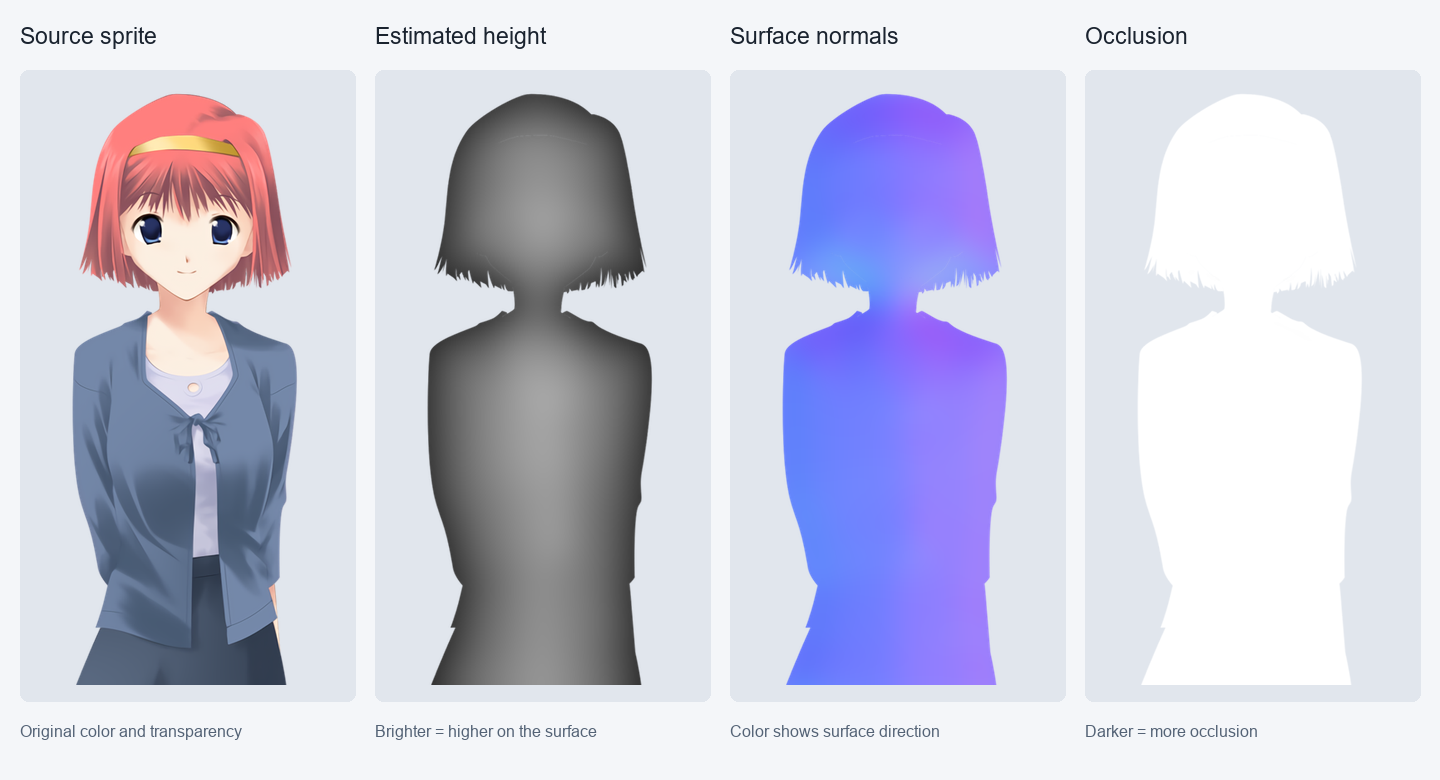
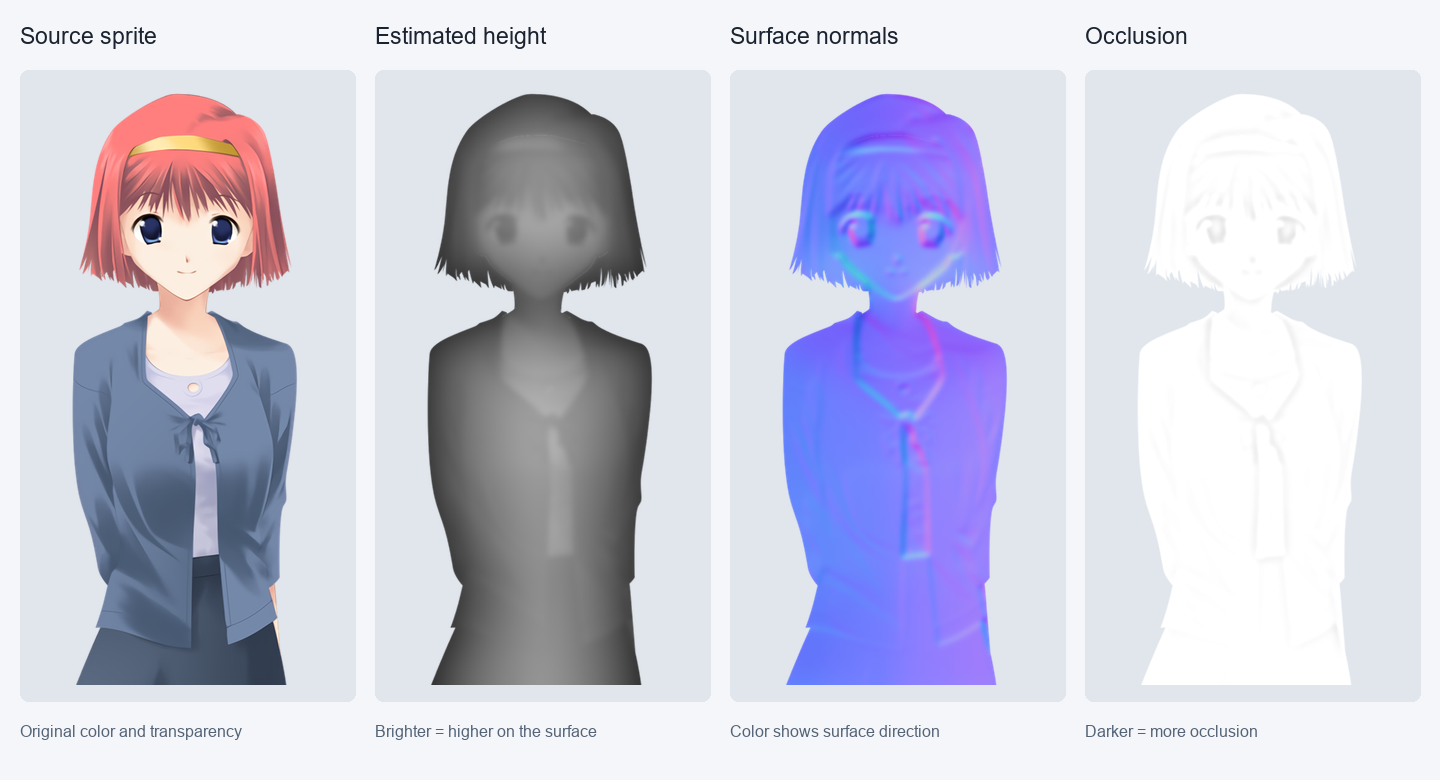
Preserve fine surface detail while smoothing silhouette ridges

diff --git a/tests/test_effects.py b/tests/test_effects.py
@@ -30,21 +30,21 @@ def _pre_effect_fixture(mode: str) -> Image.Image:
 
 
 def test_form_maps_preserve_the_reviewed_smooth_surface_texels() -> None:
-    # v4 smooths the inferred height ridges before normal reconstruction.
+    # v5 smooths the silhouette ridges while retaining painted relief.
     # Keep this reviewed surface stable across packing and optional-FX changes.
     expected = {
         "opaque": {
[6 lines of base64/hex data omitted]
         },
         "sprite": {
[6 lines of base64/hex data omitted]
         },
     }
-    assert FORM_MAP_VERSION == 4
+    assert FORM_MAP_VERSION == 5
     for mode, hashes in expected.items():
         maps = build_sprite_form_maps(_pre_effect_fixture(mode))
         normal = np.asarray(maps.normal_noise.convert("RGB"), dtype=np.uint8)

diff --git a/tests/test_release.py b/tests/test_release.py
@@ -65,7 +65,7 @@ def test_release_record_names_every_cache_contract() -> None:
         "runtime_api_version": 1,
         "runtime_manifest_version": 8,
         "transport_algorithm": "12-scene-stable-light-layout",
-        "sprite_form_version": 4,
+        "sprite_form_version": 5,
         "capture_version": 42,
         "capture_plan_version": 2,
         "capture_pixel_version": 2,
@@ -233,7 +233,7 @@ def test_direct_refresh_seeds_only_compatible_sprite_form_maps(tmp_path: Path) -
     (forms / "hero_response.png").write_bytes(b"map")
     manifest = source / "sprite_form_manifest.json"
     manifest.write_text(
-        json.dumps({"version": 4, "sprites": {"hero idle": {"response": "map"}}}),
+        json.dumps({"version": 5, "sprites": {"hero idle": {"response": "map"}}}),
         encoding="utf-8",
     )
     managed = tmp_path / "working-copy"
@@ -248,7 +248,7 @@ def test_direct_refresh_seeds_only_compatible_sprite_form_maps(tmp_path: Path) -
     incompatible_forms.mkdir(parents=True)
     (incompatible_forms / "hero_response.png").write_bytes(b"old map")
     (incompatible_source / "sprite_form_manifest.json").write_text(
-        json.dumps({"version": 3, "sprites": {"hero idle": {}}}), encoding="utf-8"
+        json.dumps({"version": 4, "sprites": {"hero idle": {}}}), encoding="utf-8"
     )
     other_managed = tmp_path / "other-working-copy"
     (other_managed / "game").mkdir(parents=True)

diff --git a/src/scenelight/engine.py b/src/scenelight/engine.py
@@ -1336,13 +1336,14 @@ def _pseudo_surface(
     )
     broad_luma = cv2.GaussianBlur(luma, (0, 0), sigmaX=max(2.0, min(alpha.shape) / 100))
     broad_luma = (broad_luma - np.mean(broad_luma[mask > 0])) if np.any(mask) else broad_luma
-    height = 0.76 * np.sqrt(np.maximum(distance, 0.0)) + 0.24 * broad_luma
     # A distance field has ridges wherever two silhouette edges are equally
-    # close. Treat the inferred relief as a broad surface before differentiating
-    # it, or those ridges become false creases under opposing colored lights.
-    # This filters derived height only; the source artwork stays untouched.
-    sigma = max(1.2, min(alpha.shape) / 16)
-    height = cv2.GaussianBlur(height, (0, 0), sigmaX=sigma)
+    # close. Smooth that broad shape separately: applying the same wide filter
+    # to painted relief would erase useful hair, face and clothing detail.
+    silhouette_height = cv2.GaussianBlur(
+        np.sqrt(np.maximum(distance, 0.0)), (0, 0), sigmaX=max(1.2, min(alpha.shape) / 16)
+    )
+    detail_height = cv2.GaussianBlur(broad_luma, (0, 0), sigmaX=max(1.2, min(alpha.shape) / 260))
+    height = 0.76 * silhouette_height + 0.24 * detail_height
     gx = cv2.Sobel(height, cv2.CV_32F, 1, 0, ksize=3)
     gy = cv2.Sobel(height, cv2.CV_32F, 0, 1, ksize=3)
     strength = 5.5 * depth

diff --git a/tests/test_surface_continuity.py b/tests/test_surface_continuity.py
@@ -32,3 +32,24 @@ def test_surface_preparation_keeps_source_pixels_and_transparency():
     assert sprite.tobytes() == before
     assert maps.metadata["map_size"] == [64, 80]
     assert maps.normal_noise.size == sprite.size
+
+
+def test_fine_painted_relief_survives_without_spreading_across_the_surface():
+    size = 256
+    alpha = np.zeros((size, size), dtype=np.float32)
+    alpha[16:240, 32:224] = 1
+    srgb = np.full((size, size, 3), 0.6, dtype=np.float32)
+    y, x = np.mgrid[:size, :size]
+    radius_squared = (x - 96) ** 2 + (y - 128) ** 2
+    highlight = np.exp(-radius_squared / (2 * 4**2)).astype(np.float32)
+    detailed = srgb + 0.25 * highlight[..., None]
+
+    height, *normal = _pseudo_surface(alpha, srgb, 0.72)
+    detail_height, *detail_normal = _pseudo_surface(alpha, detailed, 0.72)
+    change = np.linalg.norm(np.stack(detail_normal) - np.stack(normal), axis=0)
+
+    # A small painted feature must affect local relief without becoming a
+    # broad blob. Filtering the complete height at silhouette scale fails this.
+    assert change.max() > 0.1
+    assert np.max(np.abs(detail_height - height)) > 0.03
+    assert change[radius_squared > 32**2].max() < 0.001

diff --git a/tests/test_developer.py b/tests/test_developer.py
@@ -189,7 +189,7 @@ def test_verified_refresh_migrates_versionless_pre_release_manifest(tmp_path: Pa
     assert status.clean
     assert status.installed_version == "1.0.0"
     migrated = json.loads(manifest_path.read_text(encoding="utf-8"))
-    assert migrated["release"]["sprite_form_version"] == 4
+    assert migrated["release"]["sprite_form_version"] == 5
 
 
 def test_refresh_preflight_refuses_a_modified_runtime_before_analysis(tmp_path: Path) -> None:

diff --git a/src/scenelight/form_maps.py b/src/scenelight/form_maps.py
@@ -25,7 +25,7 @@ from .engine import (
     _surface_ambient_occlusion,
 )
 
-FORM_MAP_VERSION = 4
+FORM_MAP_VERSION = 5
 FORM_ANALYSIS_MAX_DIMENSION = 512
 HEIGHT_MIN = -0.25
 HEIGHT_MAX = 1.25

diff --git a/docs/BETA_VALIDATION.md b/docs/BETA_VALIDATION.md
@@ -5,17 +5,18 @@ and a successful install is not a complete game playthrough.
 
 ## Current validation
 
-The local Windows suite passed 600 tests on 2026-09-11, with no failures,
+The local Windows suite passed 601 tests on 2026-09-11, with no failures,
 errors or skips. Lint, formatting, package builds, dependency checks and the
 configured static/dependency audits are also release gates. GitHub CI runs the
 committed source on Windows and Linux, with a separate player-only installation
 job that excludes the optional Preview stack.
 
-The surface-seam correction was checked against the selected Eileen render:
-the production output matches it pixel for pixel. The optimized and fallback
-shader paths also match on that scene. Ren'Py 7.7.1 and 8.5.3 completed movement,
-colored-light mode changes, a fixed midpoint transition, and save/load using the
-new form maps. Form-map version 4 rebuilds older maps during an update. The
+The surface-seam correction smooths the silhouette separately from finer painted
+relief. Regression checks require both a smooth center across flat paint and a
+local normal response to a small painted feature. The optimized and fallback
+shader paths match pixel for pixel on the Eileen example. Ren'Py 7.7.1 and 8.5.3
+completed movement, colored-light mode changes, a fixed midpoint transition, and
+save/load using the new form maps. Version 5 rebuilds older maps during an update. The
 older Radeon machine was unavailable for this follow-up; the hardware results
 below describe the preceding optimization pass, not a new measurement of this fix.
 

diff --git a/docs/HOW_IT_WORKS.md b/docs/HOW_IT_WORKS.md
@@ -15,8 +15,9 @@ are actual Preview renders with the default lighting settings.
 ![Original sprite, estimated height, normals and occlusion](media/surface-maps.png)
 
 **Height** is a shallow estimate made from the transparent outline and the
-image’s existing shading. It is smoothed before deriving surface directions so
-the outline does not create sharp artificial creases through the character.
+image’s existing shading. The broad shape inferred from the outline is smoothed
+separately from the finer painted relief. This removes artificial creases while
+keeping detail in the surface directions.
 Brighter values in the diagram mean higher parts of that estimated surface.
 
 **Normals** describe the direction the surface faces at each point. Their colors

diff --git a/CHANGELOG.md b/CHANGELOG.md
@@ -2,9 +2,10 @@
 
 ## 1.0.0 — private development
 
-- Smooths artificial height ridges and corrects the directional color blend
-  that made them appear as sharp lines across sprites. Existing installations
-  rebuild character maps when updated to form-map version 4.
+- Smooths artificial silhouette ridges separately from finer painted relief,
+  and corrects the directional color blend that made ridges appear as sharp
+  lines across sprites. Existing installations rebuild character maps when
+  updated to form-map version 5.
 - Adds rendered examples, a guide to height and normal maps, and shorter setup
   instructions. The project remains private; no public release has been made.
 

diff --git a/docs/INSTALL.md b/docs/INSTALL.md
@@ -53,7 +53,8 @@ or downloading a newer package does not update that game automatically.
 Open the newer Setup, select the existing game and use its update action.
 Compatible preparation is reused; changed art or a new surface-map version
 requires rebuilding the affected maps. The smooth-surface correction in form-map
-version 4 needs that rebuild to remove the old height ridges.
+version 5 needs that rebuild to remove the old height ridges while retaining
+finer surface detail.
 
 For a developer installation, open **For mod developers → Check new assets**,
 review any new character families, then choose **Update SceneLight**. An added
